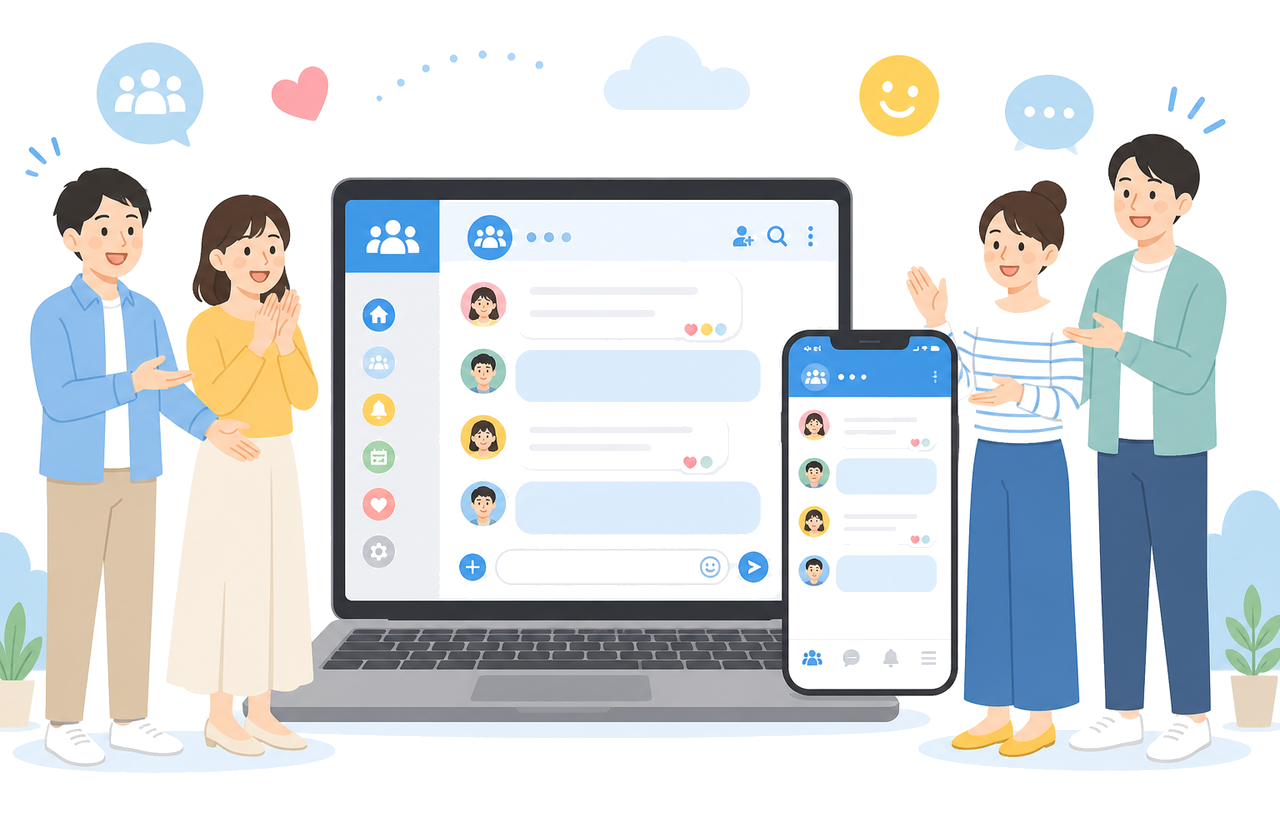
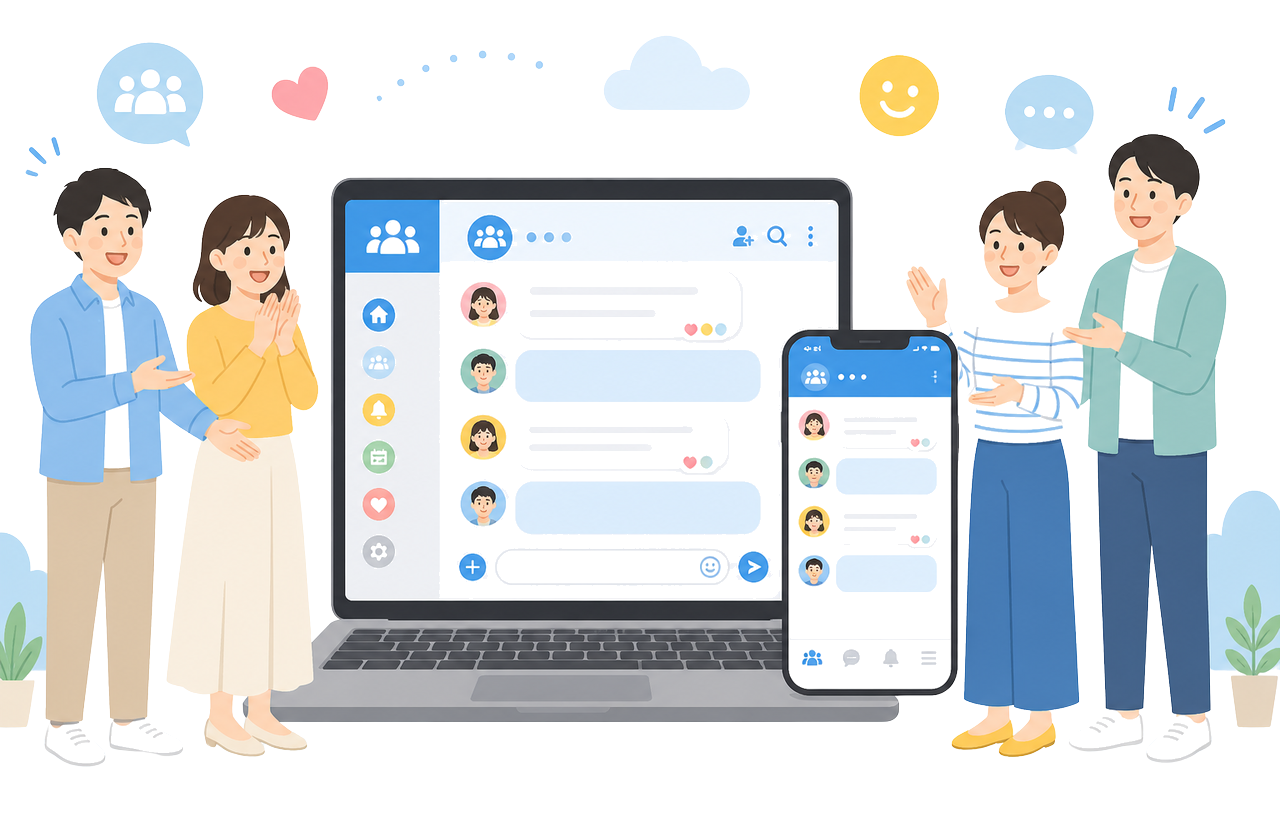
v4 fixes: mobile horizontal concept cards, swap group illust (eyebrow fix) + transparent devices illust

Changed region(s): [[0.0, 0.8537, 1.0, 0.9451]]

diff --git a/style.css b/style.css
@@ -781,7 +781,7 @@ ul, ol { list-style: none; }
 .concept-device img {
   width: 100%;
   height: auto;
-  mix-blend-mode: multiply; /* sky-pale背景に白を抜いて自然に合成・枠なし */
+  /* 背景透過PNGのため合成不要・枠なしで自然に表示 */
 }
 
 /* ---------- ②左大イラスト＋右テキスト（commune「最も選ばれている」風） ---------- */
@@ -825,6 +825,27 @@ ul, ol { list-style: none; }
 @media (max-width: 600px) {
   .kadai-figure { width: 168px; height: 168px; }
   .card-grid.cols-4 { grid-template-columns: 1fr; }
+}
+
+/* 修正1: スマホでコンセプト3カードを横並び（アイコン左・テキスト右）*/
+@media (max-width: 640px) {
+  #concept .card {
+    display: grid;
+    grid-template-columns: 48px 1fr;
+    column-gap: 16px;
+    align-items: start;
+    text-align: left;
+    padding: 20px;
+  }
+  #concept .card-blob {
+    grid-row: 1 / span 2;
+    width: 48px;
+    height: 48px;
+    margin: 0;
+  }
+  #concept .card-blob svg { width: 26px; height: 26px; }
+  #concept .card h3 { text-align: left; margin-bottom: 6px; }
+  #concept .card p { text-align: left; }
 }
 
 /* a11y override: CTA contrast AA (white on Primary was ~2.75:1) */
